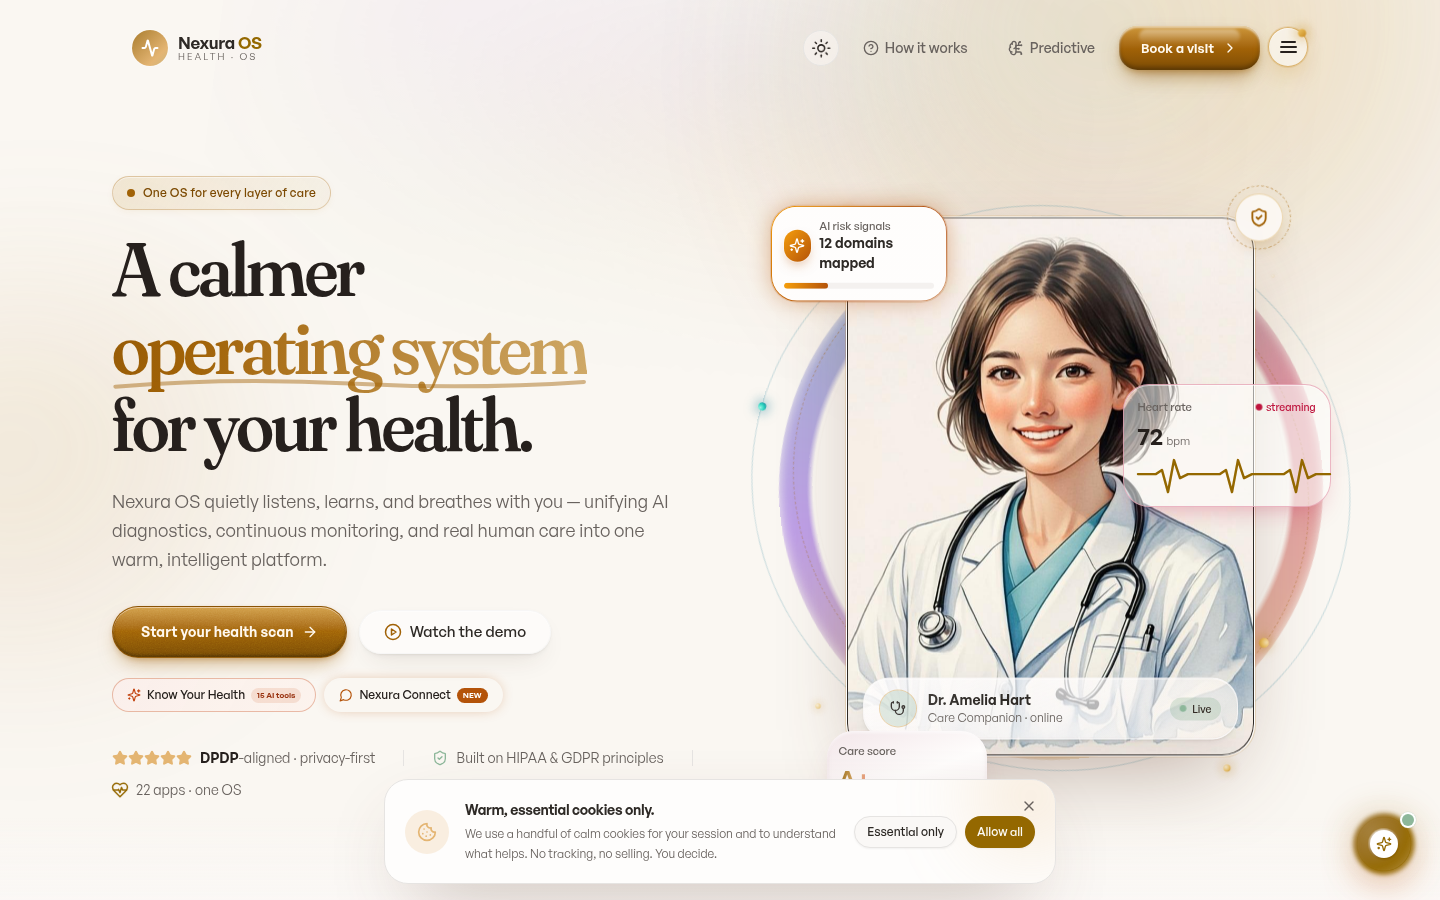
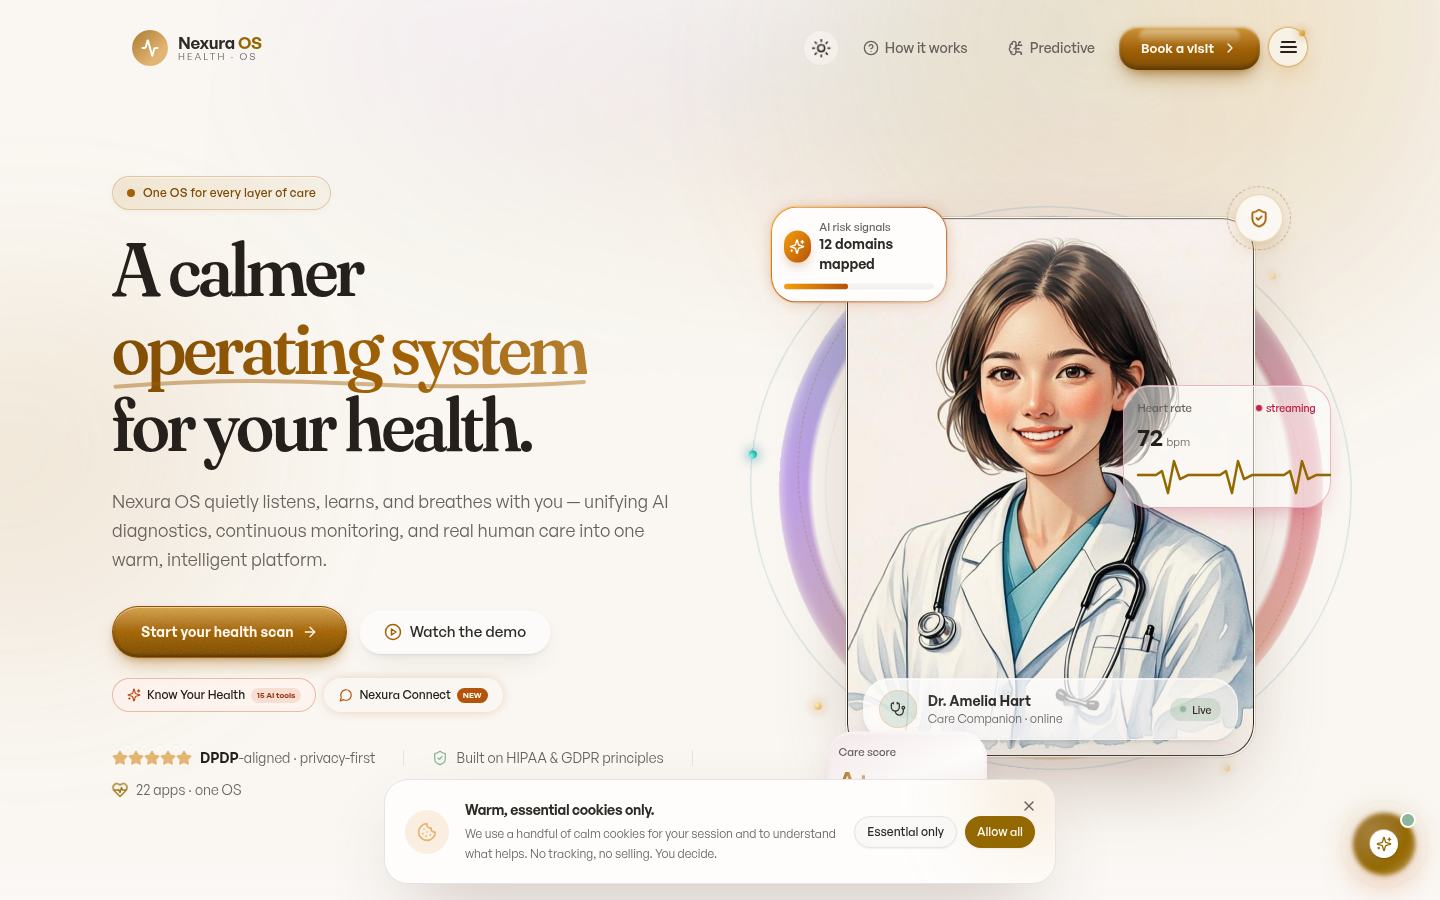
menu-hero-2: drawer anchored RIGHT (same side as trigger) — root-caused 2nd unlayered-position cascade bug (.menu-drawer position:relative killed Tailwind absolute/right-0; left version had masked it at x=0); verify script now measures right-edge anchoring

diff --git a/src/app/globals.css b/src/app/globals.css
@@ -2752,9 +2752,10 @@ html.nx-force-visible [style*="opacity:0"] {
   50% { transform: scale(1.4); opacity: 1; }
 }
 
-/* drawer panel — warm aurora glass, never plain white */
+/* drawer panel — warm aurora glass, never plain white
+   NOTE: no `position` here — Tailwind's `absolute` utility must control
+   anchoring (unlayered CSS would override it and break right-0). */
 .menu-drawer {
-  position: relative;
   isolation: isolate;
   overflow: hidden;
   background: linear-gradient(

diff --git a/worklog.md b/worklog.md
@@ -4155,3 +4155,20 @@ Stage Summary:
 - Hero girl photo is a full showpiece: spectrum halo, orbital satellites, sheen sweep, DPDP seal, material chips — all looping, all reduced-motion safe
 - Two cascade bugs fixed (unlayered position vs Tailwind utilities) — documented to prevent recurrence
 - Committed + tagged menu-hero-1-final + dual bundles refreshed immediately
+
+---
+Task ID: MENU-HERO-2
+Agent: Super Z (main)
+Task: User reported menu "still opening on the opposite side" — anchor drawer to the RIGHT (same side as the trigger) and re-lock
+
+Work Log:
+- INTERPRETATION CORRECTED: user wants the drawer on the SAME side as the hamburger button (top-right, beside "Book a visit"); the MENU-HERO-1 flip-to-left was the wrong read — flipped back to RIGHT edge (x:"100%" slide, rounded-l, border-l, shadow flipped). This is also the spatially-correct design (panel anchored to its trigger)
+- ROOT-CAUSED A SECOND CASCADE BUG (same family as MENU-HERO-1's .mat-chip): .menu-drawer had unlayered `position: relative` → beat Tailwind's `absolute` utility → `right-0` was dead and the panel rendered at static x=0. The earlier LEFT version had masked the bug (left-0 coincided with static position) — which is exactly why the side seemed to "never change" for the user. Removed the position declaration; aside keeps Tailwind `absolute`; ::before/::after still anchor correctly since the element remains positioned via the utility. LESSON: never declare `position` in unlayered custom classes for elements whose anchoring comes from Tailwind utilities
+- verify script updated: desktop expects drawer x ≈ vw−416 (RIGHT edge); mobile full-width
+- VERIFY: tsc EXIT:0; deploy MYw1YzcgmWME0-1XNhS55 fully verified (first post-edit run had a startup-time FAIL on the known-flaky check; re-run + manual curls clean, /predictive marker 200); menu-hero-verify.mjs ALL PASS incl. "drawer anchored to RIGHT edge — x=1024 vw=1440"; 18/18 routes 200; /api/ready green
+- Screenshot: logs/menu-open-right.png (drawer under the button, rounded inner corners, ABDM/DPDP/NABH footer chips visible)
+
+Stage Summary:
+- Drawer now opens from the right edge — directly beneath the trigger — wearing the full material spectrum
+- Second unlayered-position cascade bug fixed and documented; side now provably measured (x=1024/1440) not assumed
+- Committed + tagged menu-hero-2-final + dual bundles refreshed immediately
